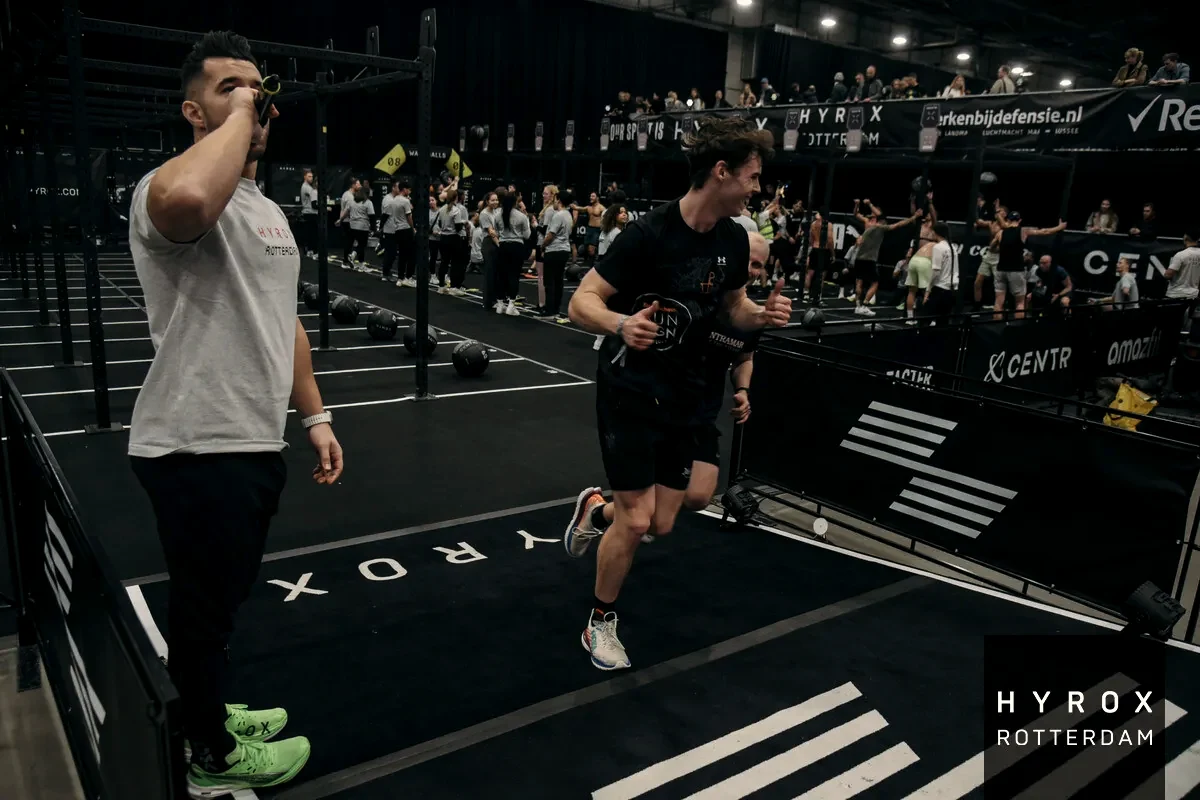
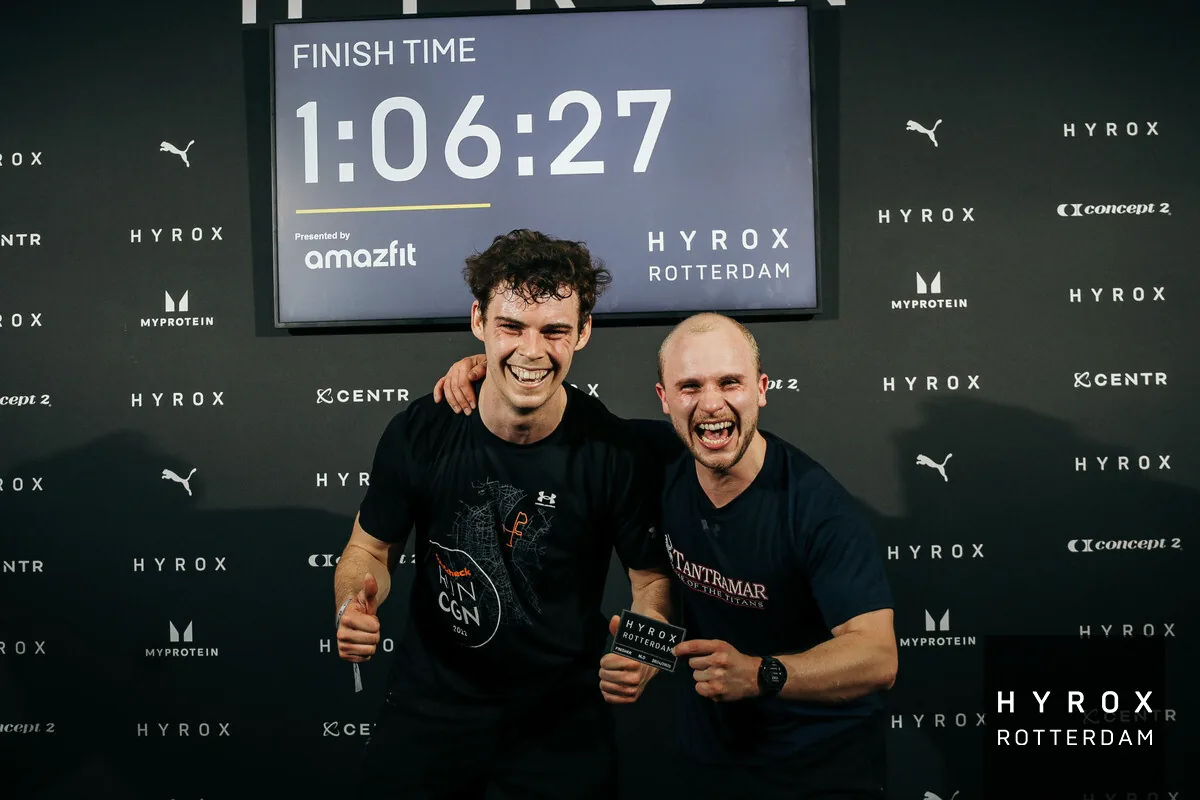
Startseite: Race-Fotos im Hyrox-Block

diff --git a/index.html b/index.html
@@ -62,7 +62,7 @@
   }
 }
 </script>
-<link rel="stylesheet" href="style.css?v=25">
+<link rel="stylesheet" href="style.css?v=26">
 <style>
 /* Lizenzen auf dem Handy kompakt, damit die Liste die Seite nicht in die Länge zieht */
 @media(max-width:600px){
@@ -212,6 +212,20 @@
       <p>Gezielte Wettkampf-Vorbereitung bei Iron&amp;Soul in K&ouml;ln und Neuss &ndash; vom ersten Hyrox bis zur neuen Bestzeit.</p>
     </div>
     <a class="btn btn-dark" href="hyrox.html">Hyrox-Vorbereitung ansehen</a>
+  </div>
+  <div class="wrap hyrox-fotos">
+    <figure class="hf hf-portrait">
+      <img src="run-cgn.webp" alt="L&auml;ufer beim Run CGN in K&ouml;ln" width="799" height="1200" loading="lazy">
+      <figcaption>Run CGN</figcaption>
+    </figure>
+    <figure class="hf">
+      <img src="hyrox-halle.webp" alt="Hyrox Rotterdam: Athlet tr&auml;gt zwei Kettlebells durch die Halle" width="1200" height="800" loading="lazy">
+      <figcaption>Hyrox Rotterdam</figcaption>
+    </figure>
+    <figure class="hf">
+      <img src="hyrox-finish.webp" alt="Zwei Sportler jubeln im Ziel beim Hyrox Rotterdam" width="1200" height="800" loading="lazy">
+      <figcaption>Im Ziel</figcaption>
+    </figure>
   </div>
 </section>
 <section class="reviews" id="stimmen">

diff --git a/style.css b/style.css
@@ -589,3 +589,16 @@ footer{border-top:1px solid var(--line);padding:44px 0;font-size:13px;color:var(
   .ort-galerie::-webkit-scrollbar{display:none}
   .ort-galerie a{flex:0 0 80%;scroll-snap-align:start}
 }
+
+/* Startseite: Race-Fotos im Hyrox-Teaser (Originalformate, nichts wird beschnitten) */
+.hyrox-fotos{position:relative;display:grid;grid-template-columns:8fr 9fr;grid-template-rows:1fr 1fr;gap:14px;margin-top:48px}
+.hyrox-fotos .hf{position:relative;margin:0;overflow:hidden;background:#15171C}
+.hyrox-fotos .hf-portrait{grid-row:1 / span 2;aspect-ratio:2/3}
+.hyrox-fotos .hf img{position:absolute;inset:0;width:100%;height:100%;object-fit:cover;display:block}
+.hyrox-fotos figcaption{position:absolute;left:12px;bottom:12px;background:rgba(21,23,28,.88);color:var(--bone);padding:6px 11px;font-size:11px;font-weight:600;letter-spacing:.18em;text-transform:uppercase}
+@media(max-width:700px){
+  .hyrox-fotos{display:flex;gap:10px;overflow-x:auto;scroll-snap-type:x mandatory;scrollbar-width:none;-ms-overflow-style:none;margin-top:36px;padding-bottom:4px}
+  .hyrox-fotos::-webkit-scrollbar{display:none}
+  .hyrox-fotos .hf{flex:0 0 auto;height:240px;scroll-snap-align:start}
+  .hyrox-fotos .hf:not(.hf-portrait){aspect-ratio:3/2}
+}
